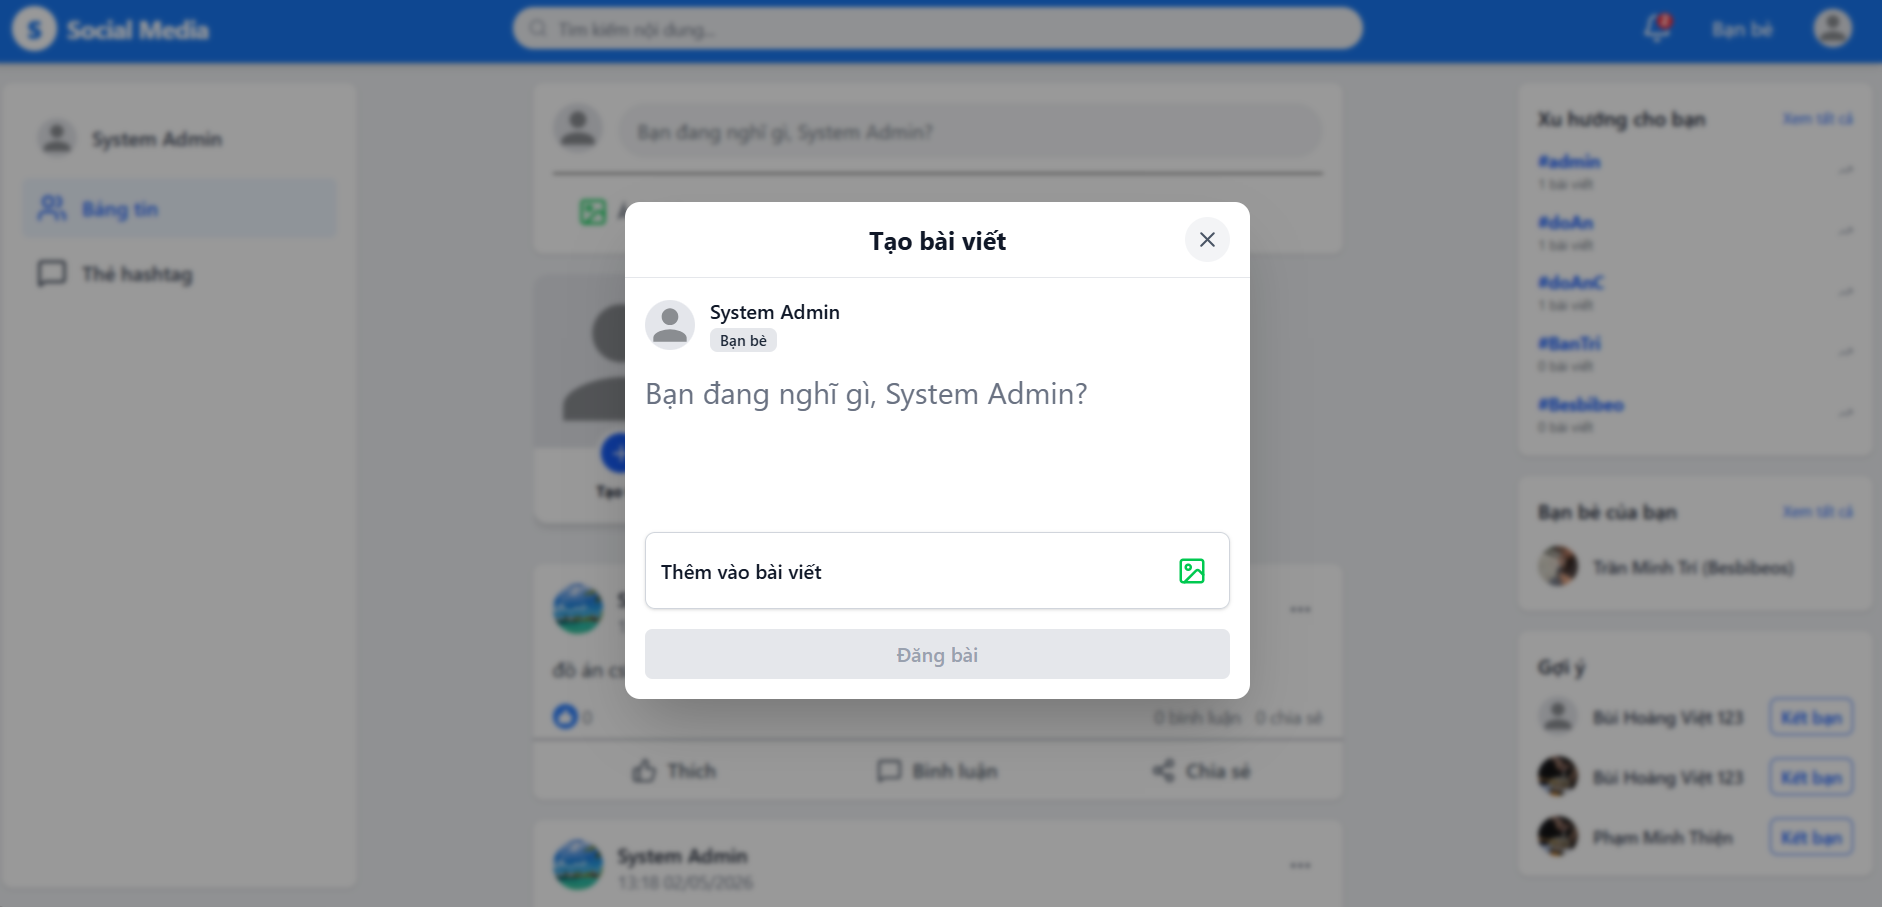
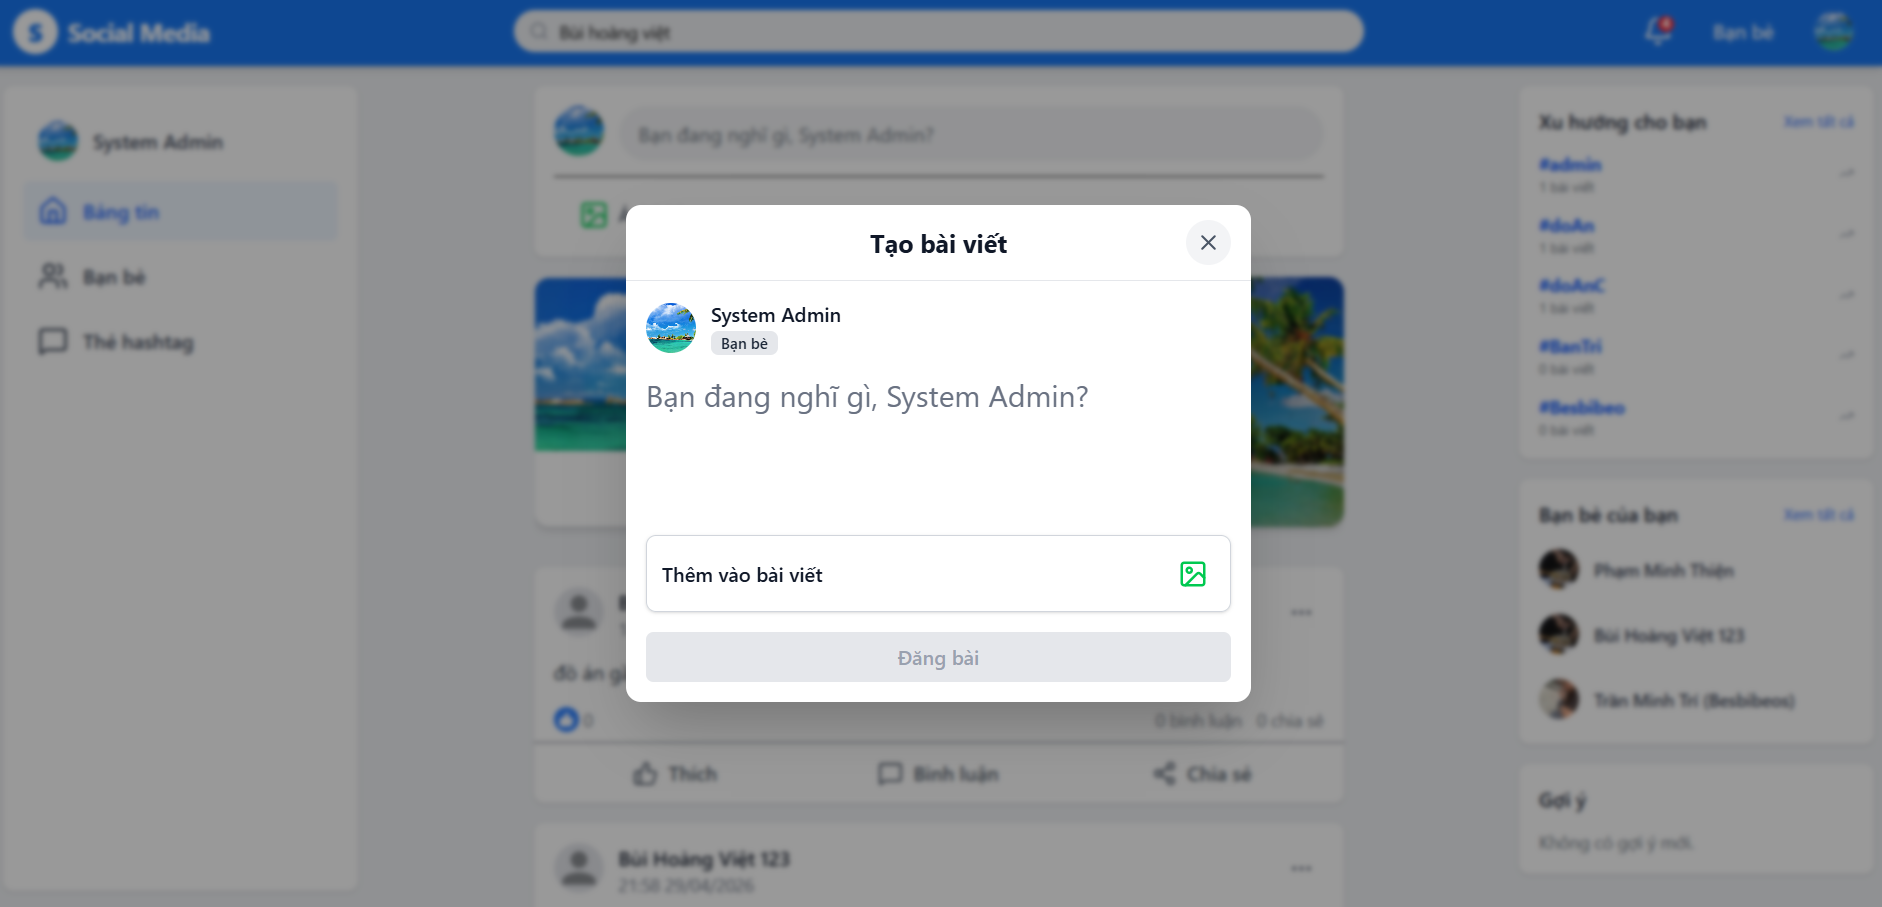
Update friends page layout and navigation

diff --git a/Frontend/src/pages/FriendsPage.tsx b/Frontend/src/pages/FriendsPage.tsx
@@ -1,146 +1,198 @@
+import { useState } from 'react';
 import { Link } from 'react-router-dom';
 import { useFriendships } from '../contexts/FriendshipContext';
-import { Check, Users, X } from 'lucide-react';
+import { UserPlus, UserCheck } from 'lucide-react';
+
+type Tab = 'home' | 'requests' | 'suggestions' | 'all';
 
 export function FriendsPage() {
   const { friends, pendingRequests, suggestions, requestSent, sendRequest, acceptRequest, declineRequest, loading } = useFriendships();
+  const [activeTab, setActiveTab] = useState<Tab>('home');
 
[1 lines of base64/hex data omitted]
 
-  return (
-    <div className="max-w-[980px] mx-auto py-6 px-4">
-      <div className="mb-6 flex flex-col md:flex-row md:items-end md:justify-between gap-4">
-        <div>
-          <h1 className="text-3xl font-bold text-gray-900">Bạn bè của bạn</h1>
-          <p className="text-gray-500 mt-2">Quản lý danh sách bạn bè, lời mời kết bạn và gợi ý kết nối.</p>
+  const renderTab = (id: Tab, label: string) => {
+    const isActive = activeTab === id;
+    return (
+      <button
+        onClick={() => setActiveTab(id)}
+        className={`px-4 py-3 font-semibold text-sm whitespace-nowrap transition-colors ${isActive
+            ? 'text-blue-600 border-b-[3px] border-blue-600 rounded-t-sm'
+            : 'text-gray-500 hover:bg-gray-100 rounded-lg'
+          }`}
+      >
+        {label}
+      </button>
+    );
+  };
+
+  const renderFriendRequests = () => (
+    <section>
+      <div className="flex items-center justify-between mb-4">
+        <h2 className="text-xl font-bold text-gray-900">Lời mời kết bạn</h2>
+        {activeTab === 'home' && (
+          <button onClick={() => setActiveTab('requests')} className="text-blue-600 hover:bg-gray-100 px-3 py-1.5 rounded-md text-sm font-semibold transition-colors">
+            Xem tất cả
+          </button>
+        )}
+      </div>
+      {pendingRequests.length === 0 ? (
+        <div className="text-gray-500 bg-white p-6 rounded-xl border border-gray-200 text-center">Bạn không có lời mời kết bạn nào.</div>
+      ) : (
+        <div className="grid grid-cols-2 md:grid-cols-3 gap-4">
+          {pendingRequests.map((request) => (
+            <div key={request.friendId} className="bg-white rounded-xl shadow-sm border border-gray-200 overflow-hidden flex flex-col">
+              <Link to={`/profile/${request.friendId}`}>
+                <img src={request.friendAvatarData || defaultAvatar} alt={request.friendName} className="w-full aspect-square object-cover" />
+              </Link>
+              <div className="p-4 flex flex-col flex-1">
+                <Link to={`/profile/${request.friendId}`} className="flex-1">
+                  <h3 className="font-semibold text-gray-900 truncate hover:underline">{request.friendName}</h3>
+                </Link>
+                <div className="mt-3 flex flex-col gap-2">
+                  <button
+                    onClick={() => void acceptRequest(request.friendId)}
+                    className="w-full bg-blue-600 text-white rounded-lg py-1.5 font-semibold hover:bg-blue-700 transition-colors"
+                  >
+                    Xác nhận
+                  </button>
+                  <button
+                    onClick={() => void declineRequest(request.friendId)}
+                    className="w-full bg-gray-200 text-gray-800 rounded-lg py-1.5 font-semibold hover:bg-gray-300 transition-colors"
+                  >
+                    Xóa
+                  </button>
+                </div>
+              </div>
+            </div>
+          ))}
         </div>
-        <Link
-          to="/profile/me"
-          className="inline-flex items-center gap-2 rounded-full bg-blue-600 px-4 py-2 text-white text-sm font-semibold hover:bg-blue-700 transition-colors"
-        >
-          <Users className="w-4 h-4" />
-          Trang cá nhân
-        </Link>
+      )}
+    </section>
+  );
+
+  const renderSuggestions = () => (
+    <section>
+      <div className="flex items-center justify-between mb-4">
+        <h2 className="text-xl font-bold text-gray-900">Những người bạn có thể biết</h2>
+        {activeTab === 'home' && (
+          <button onClick={() => setActiveTab('suggestions')} className="text-blue-600 hover:bg-gray-100 px-3 py-1.5 rounded-md text-sm font-semibold transition-colors">
+            Xem tất cả
+          </button>
+        )}
+      </div>
+      {suggestions.length === 0 ? (
+        <div className="text-gray-500 bg-white p-6 rounded-xl border border-gray-200 text-center">Không có gợi ý kết bạn nào.</div>
+      ) : (
+        <div className="grid grid-cols-2 md:grid-cols-3 gap-4">
+          {suggestions.map((suggestion) => {
+            const isSent = requestSent.includes(suggestion.id);
+            return (
+              <div key={suggestion.id} className="bg-white rounded-xl shadow-sm border border-gray-200 overflow-hidden flex flex-col">
+                <Link to={`/profile/${suggestion.id}`}>
+                  <img src={suggestion.avatarData || defaultAvatar} alt={suggestion.name} className="w-full aspect-square object-cover" />
+                </Link>
+                <div className="p-4 flex flex-col flex-1">
+                  <Link to={`/profile/${suggestion.id}`} className="flex-1">
+                    <h3 className="font-semibold text-gray-900 truncate hover:underline">{suggestion.name}</h3>
+                  </Link>
+                  <div className="mt-3">
+                    <button
+                      disabled={isSent}
+                      onClick={async () => {
+                        if (!isSent) await sendRequest(suggestion.id);
+                      }}
+                      className={`w-full flex items-center justify-center gap-2 rounded-lg py-1.5 font-semibold transition-colors ${isSent ? 'bg-gray-100 text-gray-500 cursor-not-allowed' : 'bg-blue-100 text-blue-600 hover:bg-blue-200'
+                        }`}
+                    >
+                      {isSent ? 'Đã gửi lời mời' : (
+                        <>
+                          <UserPlus className="w-4 h-4" />
+                          Thêm bạn bè
+                        </>
+                      )}
+                    </button>
+                  </div>
+                </div>
+              </div>
+            );
+          })}
+        </div>
+      )}
+    </section>
+  );
+
+  const renderAllFriends = () => (
+    <section>
+      <div className="flex items-center justify-between mb-4">
+        <h2 className="text-xl font-bold text-gray-900">Tất cả bạn bè</h2>
+      </div>
+      {friends.length === 0 ? (
+        <div className="text-gray-500 bg-white p-6 rounded-xl border border-gray-200 text-center">Bạn chưa có bạn bè nào.</div>
+      ) : (
+        <div className="grid grid-cols-2 md:grid-cols-3 gap-4">
+          {friends.map((friend) => (
+            <div key={friend.friendId} className="bg-white rounded-xl shadow-sm border border-gray-200 overflow-hidden flex flex-col">
+              <Link to={`/profile/${friend.friendId}`}>
+                <img src={friend.friendAvatarData || defaultAvatar} alt={friend.friendName} className="w-full aspect-square object-cover" />
+              </Link>
+              <div className="p-4 flex flex-col flex-1">
+                <Link to={`/profile/${friend.friendId}`} className="flex-1">
+                  <h3 className="font-semibold text-gray-900 truncate hover:underline">{friend.friendName}</h3>
+                </Link>
+              </div>
+            </div>
+          ))}
+        </div>
+      )}
+    </section>
+  );
+
+  const renderContent = () => {
+    if (loading) {
+      return <div className="text-gray-500 flex justify-center py-10">Đang tải...</div>;
+    }
+
+    switch (activeTab) {
+      case 'home':
+        return (
+          <div className="space-y-8">
+            {renderFriendRequests()}
+            <hr className="border-gray-200" />
+            {renderSuggestions()}
+          </div>
+        );
+      case 'requests':
+        return renderFriendRequests();
+      case 'suggestions':
+        return renderSuggestions();
+      case 'all':
+        return renderAllFriends();
+    }
+  };
+
+  return (
+    <div className="bg-white rounded-xl shadow-sm border border-gray-200 overflow-hidden">
+      <div className="p-4 border-b border-gray-200 flex items-center justify-between">
+        <h1 className="text-2xl font-bold text-gray-900">Bạn bè</h1>
+        <div className="bg-gray-100 p-2 rounded-full cursor-pointer hover:bg-gray-200 transition-colors">
+          <Link to="/profile/me">
+            <UserCheck className="w-5 h-5 text-gray-700" />
+          </Link>
+        </div>
       </div>
 
-      <div className="grid gap-6 lg:grid-cols-[1.5fr_1fr]">
-        <div className="space-y-6">
-          <section className="bg-white rounded-xl shadow-sm border border-gray-100 p-6">
-            <div className="flex items-center justify-between mb-4">
-              <div>
-                <h2 className="text-xl font-semibold text-gray-900">Lời mời kết bạn</h2>
-                <p className="text-sm text-gray-500">Những người gửi lời mời đến bạn.</p>
-              </div>
-              <span className="text-sm text-blue-600 font-semibold">{pendingRequests.length} mới</span>
-            </div>
-            {loading ? (
-              <div className="text-gray-500">Đang tải...</div>
-            ) : pendingRequests.length === 0 ? (
-              <div className="text-gray-500">Bạn hiện không có lời mời mới.</div>
-            ) : (
-              <ul className="space-y-4">
-                {pendingRequests.map((request) => (
-                  <li key={request.friendId} className="flex flex-col sm:flex-row sm:items-center sm:justify-between gap-4 bg-gray-50 rounded-xl p-4">
-                    <div className="flex items-center gap-3">
-                      <img src={request.friendAvatarData || defaultAvatar} alt={request.friendName} className="w-12 h-12 rounded-full object-cover" />
-                      <div>
-                        <p className="font-semibold text-gray-900">{request.friendName}</p>
-                        <p className="text-sm text-gray-500">Lời mời ngày {new Date(request.createdAt || '').toLocaleDateString('vi-VN') || '...'} </p>
-                      </div>
-                    </div>
-                    <div className="flex gap-2">
-                      <button
-                        onClick={() => void acceptRequest(request.friendId)}
-                        className="inline-flex items-center gap-2 rounded-full bg-blue-600 px-4 py-2 text-white text-sm font-semibold hover:bg-blue-700 transition-colors"
-                      >
-                        <Check className="w-4 h-4" />
-                        Chấp nhận
-                      </button>
-                      <button
-                        onClick={() => void declineRequest(request.friendId)}
-                        className="inline-flex items-center gap-2 rounded-full border border-gray-300 px-4 py-2 text-sm font-semibold text-gray-700 hover:bg-gray-100 transition-colors"
-                      >
-                        <X className="w-4 h-4" />
-                        Từ chối
-                      </button>
-                    </div>
-                  </li>
-                ))}
-              </ul>
-            )}
-          </section>
+      {/* Horizontal Tabs */}
+      <div className="px-4 border-b border-gray-200 flex gap-2 overflow-x-auto no-scrollbar">
+        {renderTab('home', 'Trang chủ')}
+        {renderTab('requests', 'Lời mời kết bạn')}
+        {renderTab('suggestions', 'Gợi ý')}
+        {renderTab('all', 'Tất cả bạn bè')}
+      </div>
 
-          <section className="bg-white rounded-xl shadow-sm border border-gray-100 p-6">
-            <div className="flex items-center justify-between mb-4">
-              <div>
-                <h2 className="text-xl font-semibold text-gray-900">Bạn bè của bạn</h2>
-                <p className="text-sm text-gray-500">Danh sách bạn bè đã chấp nhận.</p>
-              </div>
-              <span className="text-sm text-blue-600 font-semibold">{friends.length}</span>
-            </div>
-            {loading ? (
-              <div className="text-gray-500">Đang tải...</div>
-            ) : friends.length === 0 ? (
-              <div className="text-gray-500">Bạn chưa có bạn bè nào.</div>
-            ) : (
-              <ul className="grid gap-3 sm:grid-cols-2 xl:grid-cols-3">
-                {friends.map((friend) => (
-                  <li key={friend.friendId} className="rounded-2xl border border-gray-200 p-4 hover:shadow-sm transition-shadow">
-                    <Link to={`/profile/${friend.friendId}`} className="flex items-center gap-3">
-                      <img src={friend.friendAvatarData || defaultAvatar} alt={friend.friendName} className="w-12 h-12 rounded-full object-cover" />
-                      <div>
-                        <p className="font-semibold text-gray-900">{friend.friendName}</p>
-                        <p className="text-sm text-gray-500">Bạn bè</p>
-                      </div>
-                    </Link>
-                  </li>
-                ))}
-              </ul>
-            )}
-          </section>
-        </div>
-
-        <aside className="space-y-6">
-          <section className="bg-white rounded-xl shadow-sm border border-gray-100 p-6">
-            <div className="flex items-center justify-between mb-4">
-              <div>
-                <h2 className="text-xl font-semibold text-gray-900">Gợi ý kết bạn</h2>
-                <p className="text-sm text-gray-500">Những người bạn có thể kết nối.</p>
-              </div>
-              <span className="text-sm text-blue-600 font-semibold">{suggestions.length}</span>
-            </div>
-            {suggestions.length === 0 ? (
-              <div className="text-gray-500">Không có gợi ý mới.</div>
-            ) : (
-              <ul className="space-y-4">
-                {suggestions.map((suggestion) => {
-                  const isSent = requestSent.includes(suggestion.id);
-                  return (
-                    <li key={suggestion.id} className="flex items-center justify-between gap-3 rounded-xl border border-gray-200 p-3">
-                      <Link to={`/profile/${suggestion.id}`} className="flex items-center gap-3 truncate">
-                        <img src={suggestion.avatarData || defaultAvatar} alt={suggestion.name} className="w-12 h-12 rounded-full object-cover" />
-                        <div className="truncate">
-                          <p className="font-semibold text-gray-900 truncate">{suggestion.name}</p>
-                          <p className="text-sm text-gray-500 truncate">Xem trang cá nhân</p>
-                        </div>
-                      </Link>
-                      <button
-                        type="button"
-                        disabled={isSent}
-                        onClick={async () => {
-                          if (!isSent) await sendRequest(suggestion.id);
-                        }}
-                        className={`text-sm font-semibold rounded-full px-3 py-2 transition-colors ${isSent ? 'bg-gray-100 text-gray-500 cursor-not-allowed' : 'bg-blue-600 text-white hover:bg-blue-700'}`}
-                      >
-                        {isSent ? 'Đã gửi' : 'Kết bạn'}
-                      </button>
-                    </li>
-                  );
-                })}
-              </ul>
-            )}
-          </section>
-        </aside>
+      {/* Main Content */}
+      <div className="p-4 bg-gray-50/50 min-h-[500px]">
+        {renderContent()}
       </div>
     </div>
   );

diff --git a/Frontend/src/components/layout/LeftSidebar.tsx b/Frontend/src/components/layout/LeftSidebar.tsx
@@ -1,4 +1,4 @@
-import { Users, MessageSquare } from 'lucide-react';
+import { Users, MessageSquare, Home } from 'lucide-react';
 import { NavLink } from 'react-router-dom';
 import { useAuth } from '../../contexts/AuthContext';
 
@@ -39,8 +39,23 @@ export function LeftSidebar() {
                 }`
               }
             >
-              <Users className="w-6 h-6" />
+              <Home className="w-6 h-6" />
               <span>Bảng tin</span>
+            </NavLink>
+          </li>
+          <li>
+            <NavLink 
+              to="/friends" 
+              className={({ isActive }) => 
+                `flex items-center space-x-3 p-3 rounded-md transition-all duration-200 font-medium ${
+                  isActive 
+                    ? 'bg-blue-50 text-blue-600' 
+                    : 'text-gray-700 hover:bg-gray-100'
+                }`
+              }
+            >
+              <Users className="w-6 h-6" />
+              <span>Bạn bè</span>
             </NavLink>
           </li>
           <li>

diff --git a/Frontend/src/components/layout/Navbar.tsx b/Frontend/src/components/layout/Navbar.tsx
@@ -1,4 +1,4 @@
-import { Search, Bell, MessageCircle } from 'lucide-react';
+import { Search, Bell } from 'lucide-react';
 import { useNavigate } from 'react-router-dom';
 import { useState, useRef, useEffect } from 'react';
 import { usePosts } from '../../contexts/PostContext';
